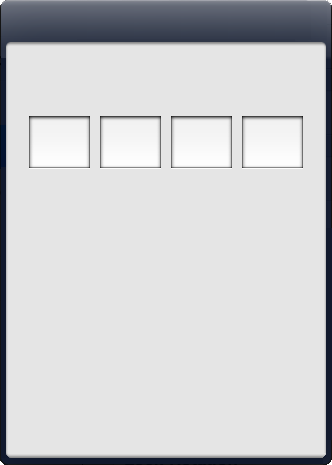
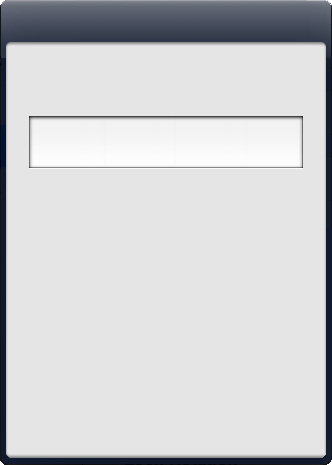
Changed to a 6 digits check

Changed region(s): [[0.241, 0.2409, 0.3313, 0.3613], [0.6928, 0.2409, 0.753, 0.3613], [0.4819, 0.2409, 0.5422, 0.3613]]

diff --git a/ABPadLockScreenDemo/ABPadLockScreen/ABPadLockScreen.m b/ABPadLockScreenDemo/ABPadLockScreen/ABPadLockScreen.m
@@ -28,11 +28,18 @@
 //  3. This notice may not be removed or altered from any source distribution.
 //
 #import "ABPadLockScreen.h"
+
+#define KEY_VALUE_WIDTH 16
+#define KEY_VALUE_MARGIN 25
+
 @interface ABPadLockScreen()
+
 @property (nonatomic, strong) UIImageView *keyValueOneImageView;
 @property (nonatomic, strong) UIImageView *keyValueTwoImageView;
 @property (nonatomic, strong) UIImageView *keyValueThreeImageView;
 @property (nonatomic, strong) UIImageView *keyValueFourImageView;
+@property (nonatomic, strong) UIImageView *keyValueFiveImageView;
+@property (nonatomic, strong) UIImageView *keyValueSixImageView;
 @property (nonatomic, strong) UIImageView *incorrectAttemptImageView;
 
 @property (nonatomic, strong) UILabel *incorrectAttemptLabel;
@@ -45,6 +52,8 @@
 @property (nonatomic, strong) NSString *digitTwo;
 @property (nonatomic, strong) NSString *digitThree;
 @property (nonatomic, strong) NSString *digitFour;
+@property (nonatomic, strong) NSString *digitFive;
+@property (nonatomic, strong) NSString *digitSix;
 
 - (void)cancelButtonTapped:(id)sender;
 - (void)digitButtonPressed:(id)sender;
@@ -53,13 +62,14 @@
 - (void)checkPin;
 - (void)lockPad;
 - (UIButton *)getStyledButtonForNumber:(int)number;
+
 @end
 
 @implementation ABPadLockScreen
 @synthesize delegate, dataSource;
-@synthesize keyValueOneImageView, keyValueTwoImageView, keyValueThreeImageView, keyValueFourImageView, incorrectAttemptImageView;
+@synthesize keyValueOneImageView, keyValueTwoImageView, keyValueThreeImageView, keyValueFourImageView, keyValueFiveImageView, keyValueSixImageView, incorrectAttemptImageView;
 @synthesize incorrectAttemptLabel, subTitleLabel;
-@synthesize digitOne, digitTwo, digitThree, digitFour;
+@synthesize digitOne, digitTwo, digitThree, digitFour, digitFive, digitSix;
 @synthesize digitsPressed, attempts;
 
 - (id)initWithDelegate:(id<ABPadLockScreenDelegate>)aDelegate withDataSource:(id<ABPadLockScreenDataSource>)aDataSource
@@ -87,12 +97,12 @@
 {
     [super viewDidLoad];
     [self.view setFrame:CGRectMake(0.0f, 0.0f, 332.0f, 465.0f)];//size of unlock pad
-    [self.view setBackgroundColor:[UIColor clearColor]];
-    
+    [self.view setBackgroundColor:[UIColor blackColor]];
+
     //Set the background view
     UIImageView *backgroundView = [[UIImageView alloc] initWithImage:[UIImage imageNamed:@"background"]];
     [self.view addSubview:backgroundView];
-    
+
     //Set the title
     UILabel *titleLabel = [[UILabel alloc] initWithFrame:CGRectMake(20.0f, 10.0f, self.view.frame.size.width - 40.0f, 20.0f)];
     [titleLabel setTextAlignment:UITextAlignmentCenter];
@@ -121,28 +131,48 @@
     [self.view addSubview:subTitleLabel];
     
     //Set the (currently empty) key value images (dots that appear when the user presses a button)
-    UIImageView *_keyValueImageOne = [[UIImageView alloc] initWithFrame:CGRectMake(52.0f, 133.0f, 16.0f, 16.0f)];
+    float keyValueX = 50.0f;
+    UIImageView *_keyValueImageOne = [[UIImageView alloc] initWithFrame:CGRectMake(keyValueX, 133.0f, 16.0f, 16.0f)];
     [self setKeyValueOneImageView:_keyValueImageOne];
     [self.view addSubview:keyValueOneImageView];
-    
-    UIImageView *_keyValueImageTwo = [[UIImageView alloc] initWithFrame:CGRectMake(123.0f, keyValueOneImageView.frame.origin.y, 16.0f, 16.0f)];
+
+    keyValueX += KEY_VALUE_WIDTH + KEY_VALUE_MARGIN;
+    UIImageView *_keyValueImageTwo = [[UIImageView alloc] initWithFrame:CGRectMake(keyValueX, keyValueOneImageView.frame.origin.y, 16.0f, 16.0f)];
     [self setKeyValueTwoImageView:_keyValueImageTwo];
     [self.view addSubview:keyValueTwoImageView];
     
-    UIImageView *_keyValueImageThree = [[UIImageView alloc] initWithFrame:CGRectMake(194.0f, 
+    keyValueX += KEY_VALUE_WIDTH + KEY_VALUE_MARGIN;
+    UIImageView *_keyValueImageThree = [[UIImageView alloc] initWithFrame:CGRectMake(keyValueX,
                                                                                      keyValueOneImageView.frame.origin.y, 
                                                                                      16.0f, 
                                                                                      16.0f)];
     [self setKeyValueThreeImageView:_keyValueImageThree];
     [self.view addSubview:keyValueThreeImageView];
     
-    UIImageView *_keyValueImageFour = [[UIImageView alloc] initWithFrame:CGRectMake(265.0f, 
+    keyValueX += KEY_VALUE_WIDTH + KEY_VALUE_MARGIN;
+    UIImageView *_keyValueImageFour = [[UIImageView alloc] initWithFrame:CGRectMake(keyValueX,
                                                                                     keyValueOneImageView.frame.origin.y, 
                                                                                     16.0f, 
                                                                                     16.0f)];
     [self setKeyValueFourImageView:_keyValueImageFour];
     [self.view addSubview:keyValueFourImageView];
     
+    keyValueX += KEY_VALUE_WIDTH + KEY_VALUE_MARGIN;
+    UIImageView *_keyValueImageFive = [[UIImageView alloc] initWithFrame:CGRectMake(keyValueX,
+                                                                                    keyValueOneImageView.frame.origin.y,
+                                                                                    16.0f,
+                                                                                    16.0f)];
+    [self setKeyValueFiveImageView:_keyValueImageFive];
+    [self.view addSubview:keyValueFiveImageView];
+
+    keyValueX += KEY_VALUE_WIDTH + KEY_VALUE_MARGIN;
+    UIImageView *_keyValueImageSix = [[UIImageView alloc] initWithFrame:CGRectMake(keyValueX,
+                                                                                    keyValueOneImageView.frame.origin.y,
+                                                                                    16.0f,
+                                                                                    16.0f)];
+    [self setKeyValueSixImageView:_keyValueImageSix];
+    [self.view addSubview:keyValueSixImageView];
+
     //Set the incorrect attempt error background image and label
     UIImageView *_incorrectAttemptImageView = [[UIImageView alloc] initWithFrame:CGRectMake(60.0f, 190.0f, 216.0f, 20.0f)];
     [self setIncorrectAttemptImageView:_incorrectAttemptImageView];
@@ -278,11 +308,15 @@
     [keyValueTwoImageView setImage:nil];
     [keyValueThreeImageView setImage:nil];
     [keyValueFourImageView setImage:nil];
+    [keyValueFiveImageView setImage:nil];
+    [keyValueSixImageView setImage:nil];
     
     [self setDigitOne:nil];
     [self setDigitTwo:nil];
     [self setDigitThree:nil];
     [self setDigitFour:nil];
+    [self setDigitFive:nil];
+    [self setDigitSix:nil];
 }
 
 - (void)resetAttempts
@@ -325,6 +359,18 @@
             [self setDigitThree:nil];
             break;
             
+        case 4:
+            digitsPressed = 3;
+            [keyValueFourImageView setImage:nil];
+            [self setDigitFour:nil];
+            break;
+            
+        case 5:
+            digitsPressed = 4;
+            [keyValueFiveImageView setImage:nil];
+            [self setDigitFive:nil];
+            break;
+            
         default:
             break;
     }
@@ -364,10 +410,21 @@
             digitsPressed = 4;
             [keyValueFourImageView setImage:[UIImage imageNamed:@"input"]];
             [self setDigitFour:[NSString stringWithFormat:@"%i", digit]];
-            [self performSelector:@selector(checkPin) withObject:self afterDelay:0.3];
-            
             break;
             
+        case 4:
+            digitsPressed = 5;
+            [keyValueFiveImageView setImage:[UIImage imageNamed:@"input"]];
+            [self setDigitFive:[NSString stringWithFormat:@"%i", digit]];
+            break;
+
+        case 5:
+            digitsPressed = 6;
+            [keyValueSixImageView setImage:[UIImage imageNamed:@"input"]];
+            [self setDigitSix:[NSString stringWithFormat:@"%i", digit]];
+            [self performSelector:@selector(checkPin) withObject:self afterDelay:0.3];
+            break;
+
         default:
             break;
     }
@@ -375,7 +432,7 @@
 
 - (void)checkPin
 {
-    int stringPasscode = [[NSString stringWithFormat:@"%@%@%@%@", digitOne, digitTwo, digitThree, digitFour] intValue];
+    int stringPasscode = [[NSString stringWithFormat:@"%@%@%@%@%@%@", digitOne, digitTwo, digitThree, digitFour, digitFive, digitSix] intValue];
     if (stringPasscode == [dataSource unlockPasscode]) 
     {
         [delegate unlockWasSuccessful];

diff --git a/ABPadLockScreenDemo/ABPadLockScreen/YourViewController.m b/ABPadLockScreenDemo/ABPadLockScreen/YourViewController.m
@@ -116,7 +116,7 @@
 - (int)unlockPasscode
 {
     //Provide the ABLockScreen with a code to verify against
-    return 1234;
+    return 123456;
 }
 
 - (NSString *)padLockScreenTitleText
